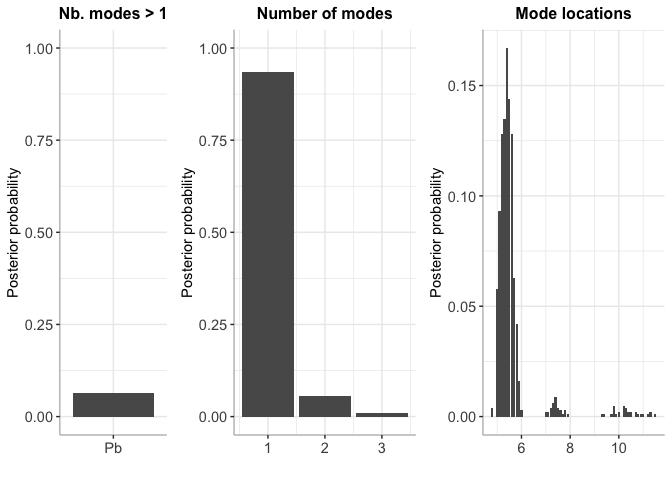
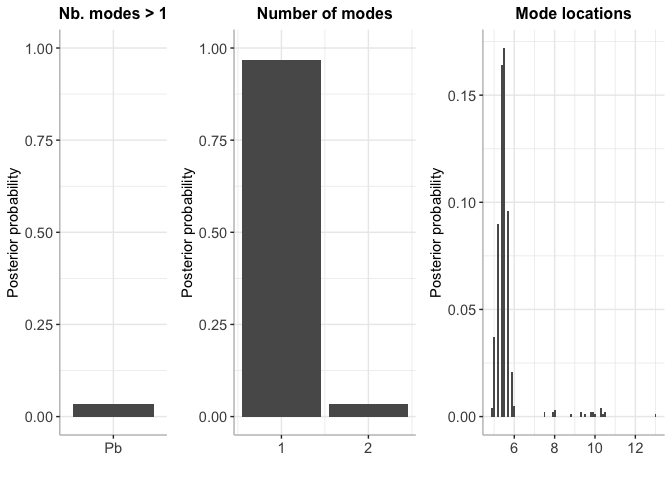
added ability to plot the modes of a given draw in bayes_mode objects

diff --git a/external_comp.md b/external_comp.md
@@ -211,8 +211,8 @@ fit <- stan(model_code = normal_mixture_model, data = data_list, iter = 2000, ch
     ## 
     ## SAMPLING FOR MODEL '07e8533f6a3188d2d50eb989867b63d7' NOW (CHAIN 1).
     ## Chain 1: 
-    ## Chain 1: Gradient evaluation took 5.5e-05 seconds
-    ## Chain 1: 1000 transitions using 10 leapfrog steps per transition would take 0.55 seconds.
+    ## Chain 1: Gradient evaluation took 5.7e-05 seconds
+    ## Chain 1: 1000 transitions using 10 leapfrog steps per transition would take 0.57 seconds.
     ## Chain 1: Adjust your expectations accordingly!
     ## Chain 1: 
     ## Chain 1: 
@@ -229,9 +229,9 @@ fit <- stan(model_code = normal_mixture_model, data = data_list, iter = 2000, ch
     ## Chain 1: Iteration: 1800 / 2000 [ 90%]  (Sampling)
     ## Chain 1: Iteration: 2000 / 2000 [100%]  (Sampling)
     ## Chain 1: 
-    ## Chain 1:  Elapsed Time: 0.252384 seconds (Warm-up)
-    ## Chain 1:                0.193822 seconds (Sampling)
-    ## Chain 1:                0.446206 seconds (Total)
+    ## Chain 1:  Elapsed Time: 0.254857 seconds (Warm-up)
+    ## Chain 1:                0.194138 seconds (Sampling)
+    ## Chain 1:                0.448995 seconds (Total)
     ## Chain 1:
 
 #### Create a BayesMixture object
@@ -347,14 +347,13 @@ plot(bayesmode)
 summary(bayesmode)
 ```
 
-    ## The posterior probability of the data being multimodal is 0.065
+    ## The posterior probability of the data being multimodal is 0.033
     ## 
     ##  Number of estimated modes and their posterior probabilities:
 
     ##      Number of modes Posterior probabilty
-    ## [1,]               1                0.935
-    ## [2,]               2                0.055
-    ## [3,]               3                0.010
+    ## [1,]               1                0.967
+    ## [2,]               2                0.033
 
 ### BNPmix
 
@@ -448,8 +447,9 @@ summary(bayesmode)
     ##  Number of estimated modes and their posterior probabilities:
 
     ##      Number of modes Posterior probabilty
-    ## [1,]               2                0.993
-    ## [2,]               3                0.007
+    ## [1,]               2                0.960
+    ## [2,]               3                0.038
+    ## [3,]               4                0.002
 
 ## Mode estimation in mixtures estimated with maximum likelihood
 
@@ -469,12 +469,12 @@ library(mixtools)
 
 ``` r
 y = c(rnorm(100,0,1),
-      rnorm(100,5,2))
+      rnorm(100,3.5,1.5))
 
 fit = normalmixEM(y)
 ```
 
-    ## number of iterations= 75
+    ## number of iterations= 172
 
 ``` r
 pars = c(eta = fit$lambda, mu = fit$mu, sigma = fit$sigma)
@@ -506,7 +506,7 @@ library(mclust)
 
 ``` r
 y = c(rnorm(100,0,1),
-      rnorm(100,5,2))
+      rnorm(100,3.5,1.5))
 
 fit = Mclust(y)
 

diff --git a/README.md b/README.md
@@ -83,15 +83,16 @@ plot(bayesmode)
 summary(bayesmode)
 ```
 
-    ## The posterior probability of the data being multimodal is 0.993
+    ## The posterior probability of the data being multimodal is 0.999
     ## 
     ##  Number of estimated modes and their posterior probabilities:
 
     ##      Number of modes Posterior probabilty
-    ## [1,]               1                0.007
-    ## [2,]               2                0.133
-    ## [3,]               3                0.840
-    ## [4,]               4                0.020
+    ## [1,]               1                0.001
+    ## [2,]               2                0.031
+    ## [3,]               3                0.919
+    ## [4,]               4                0.047
+    ## [5,]               5                0.002
 
 ### BayesMultiMode for mode inference with external MCMC output
 
